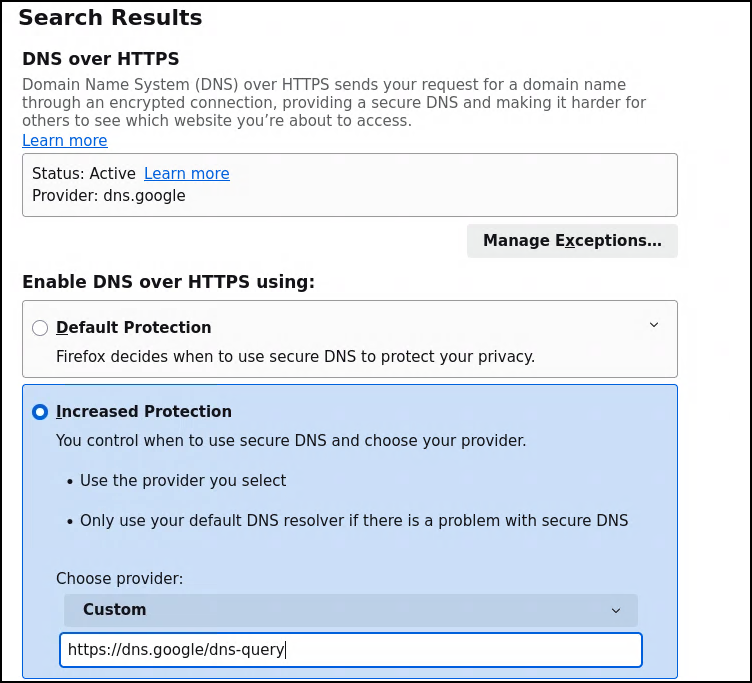
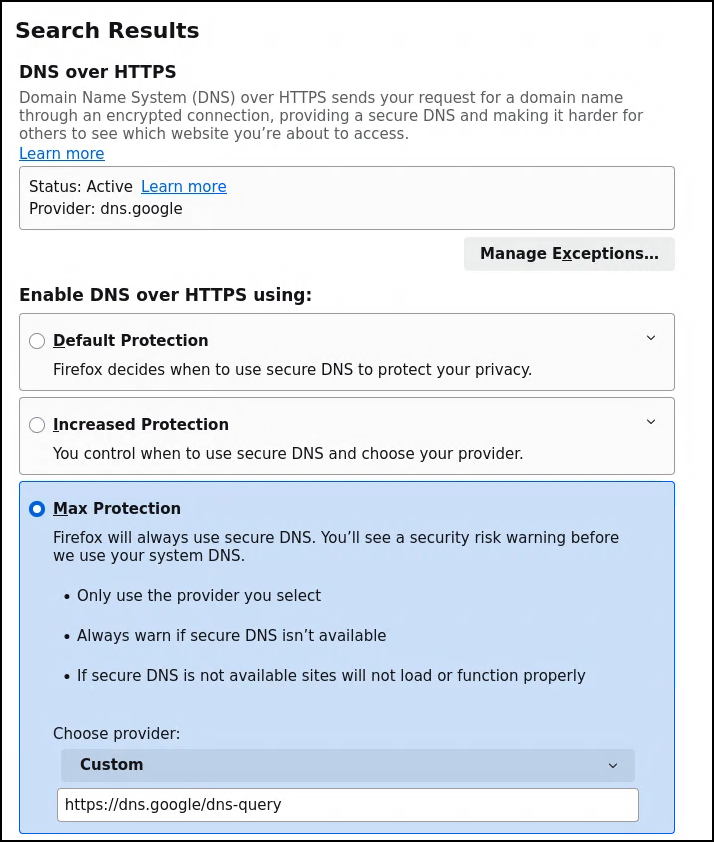
M3:L3 updates

diff --git a/module3-DoH-Guardian/lab3.rst b/module3-DoH-Guardian/lab3.rst
@@ -102,7 +102,7 @@ Configure the Firefox browser in the Ubuntu-Client to use Google's DoH server
    .. image:: images/doh-firefox-configure.png
       :align: left
 
-#. In order to force all browsing to use DNS-over-HTTPS, click the **Increased Protection** radial button. 
+#. In order to force all browsing to use DNS-over-HTTPS, click the **Max Protection** radial button. 
 
 #. In the **Choose provider** text box, type the following:
 
